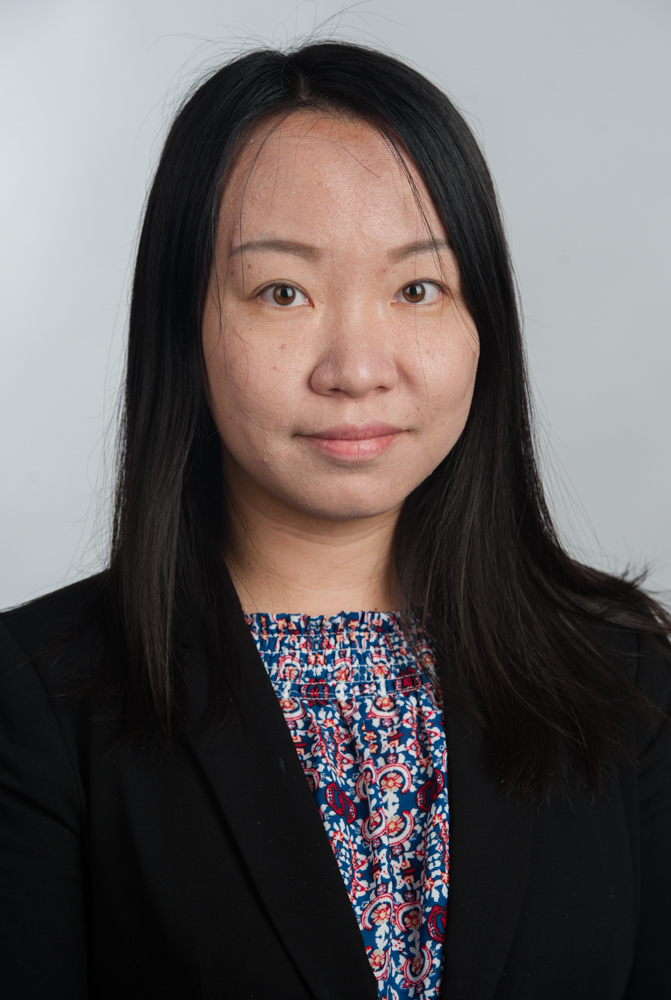
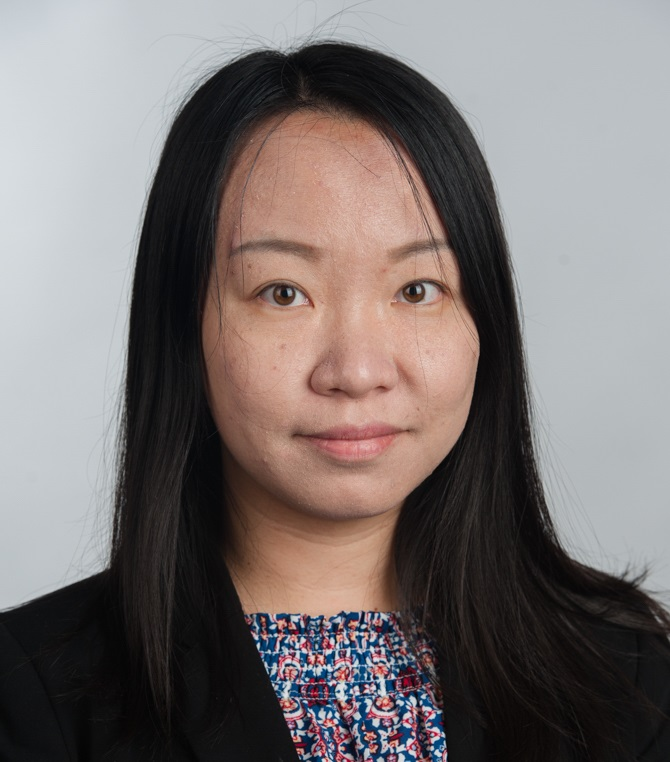
update

diff --git a/home.html b/home.html
@@ -24,7 +24,7 @@
 
         <p>
                
-            <img src="assets/img/TingZhang.jpg" alt="professor" style="width:271px;height:400px; float:right; padding-left:10px;">
+            <img src="assets/img/TingZhang.jpg" alt="professor" style="width:30%; float:right; padding-left:10px;padding-top:10px;">
             <div id="home" class="grow">
             Dr. Ting Zhang holds a Ph.D. in Electrical Engineering from the University of Alabama.
             Her main research interests include sensor systems, intelligent algorithms and

diff --git a/publications.html b/publications.html
@@ -65,8 +65,8 @@
              </ul>
             </p>
       </div> 
-    </br>
-            <div id="home" class="grow">
+    </br> 
+            <div id="publications-overview" class="grow">
             <p>
                 <b style="font-size: 16pt;"><font size="4">⭐</font>Book Chapters </b>
                    <ul>
